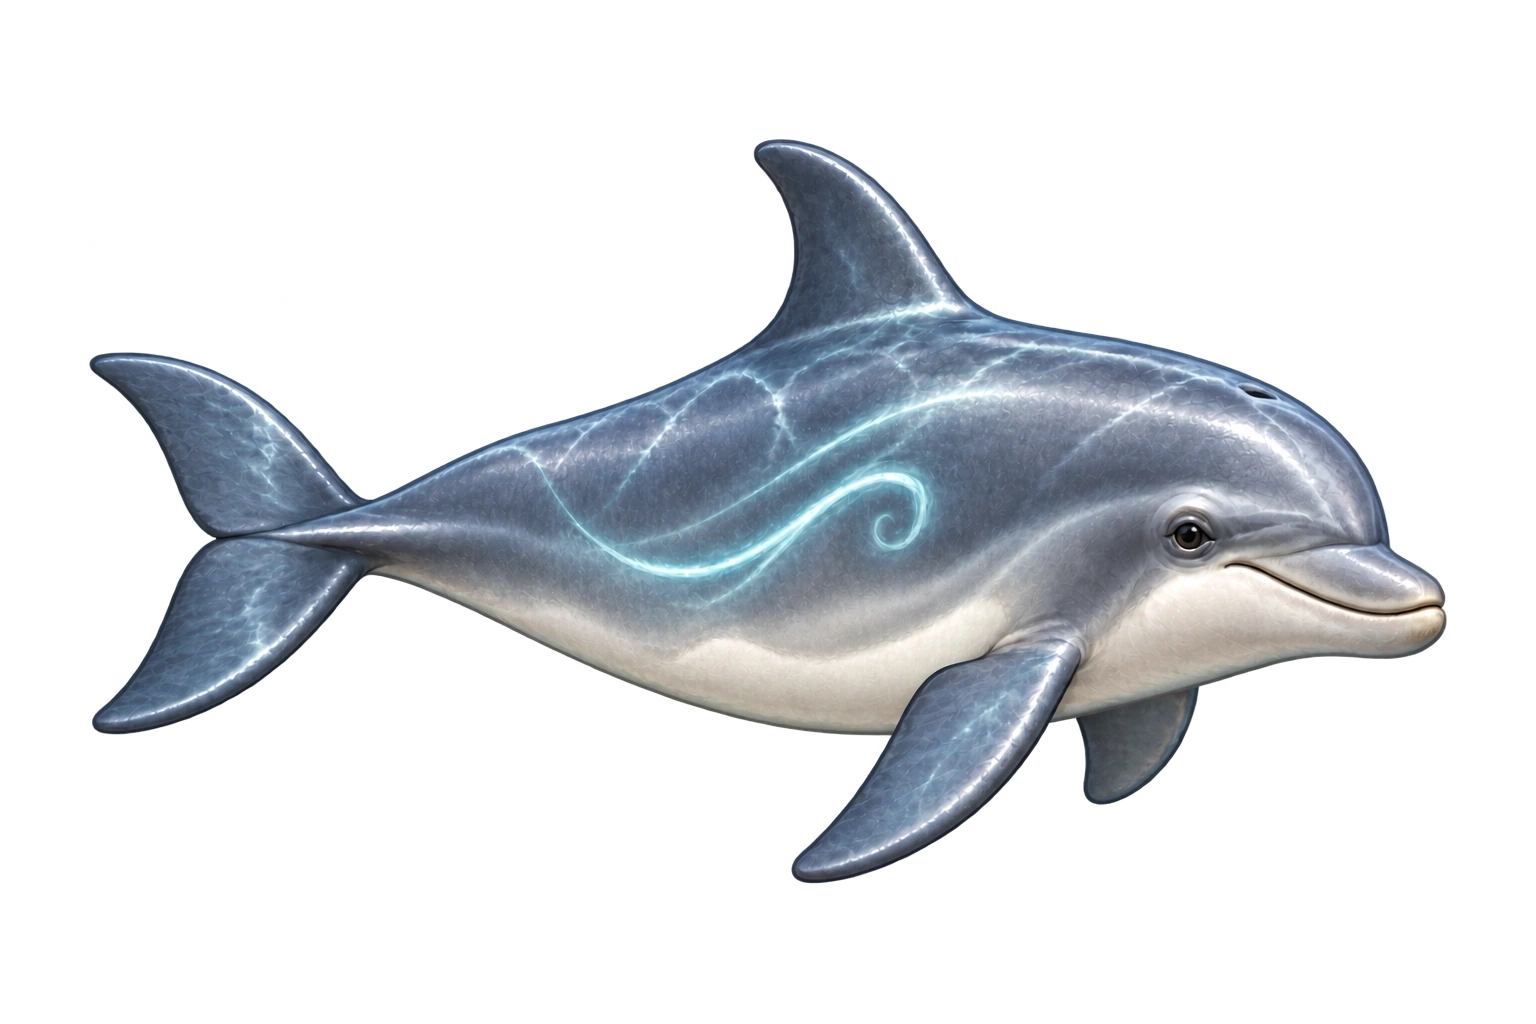
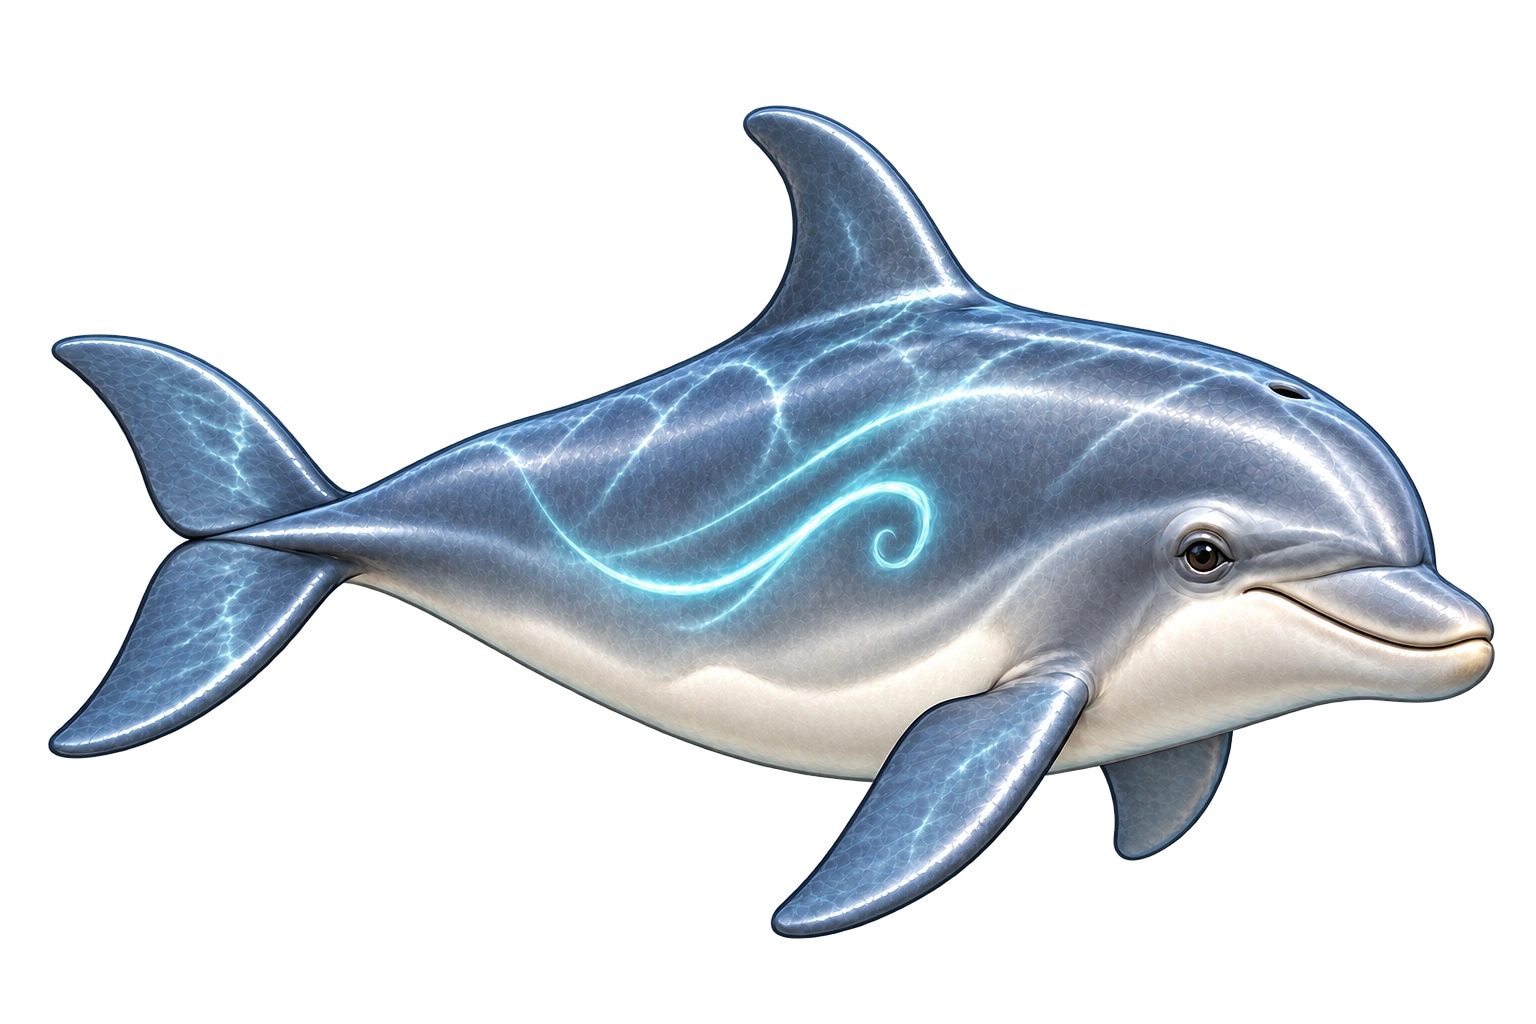
振り返りのコマを xhigh に仕上げ直し、海上の遠い海の見え方を Mio の深さに連動させる
- 振り返りの3コマ（30度・60度・正面）を gpt-image-2.5 の release（xhigh）で描き直して差し替え。
  tools/gen_turn_frames.py に --export（採用候補を切り抜いて書き出す）を追加
- 水面より上に見える「水平線から水面までの遠い海の帯」を、水面近くでは広く（高さ110）、
  潜るほど狭く、深さ400で0（空が水面の線に直接接する）にする。空中では水面近くと同じ広さで固定。
  深さが変わると帯はなめらかに伸び縮みする。水中の背景の多重スクロールは変更なし

Claude-Session: https://claude.ai/code/session_01VPscuXm57WjdZFEfPJxifW

Changed region(s): [[0.0312, 0.0938, 1.0, 0.9375]]

diff --git a/web/src/game.js b/web/src/game.js
@@ -3,7 +3,10 @@ import { Terrain } from './terrain.js';
 import { Player, P } from './player.js';
 import { FishSchool, Jelly, Shark, Follower, Particles, rand } from './entities.js';
 import { Boss } from './boss.js';
-import { clamp, damp, surfaceY, TAU } from './util.js';
+import { clamp, damp, smoothstep, surfaceY, TAU } from './util.js';
+
+const SEA_BAND = 110;        // world units of distant sea seen above the waterline near the surface
+const SEA_BAND_DEPTH = 400;  // depth at which it has shrunk to nothing
 
 class Emitter {
   constructor() { this.fns = []; }
@@ -43,6 +46,7 @@ export class World {
     this.stats = { pearls: 0, pods: 0, hurt: 0, eaten: 0 };
     this.flash = 0;
     this.slow = 0;
+    this.seaBand = this.seaBandFor(this.player);
     this.restore(progress);
   }
 
@@ -176,7 +180,15 @@ export class World {
     this.flash = Math.max(0, this.flash - dt * 2);
   }
 
+  // How much distant sea shows above the waterline: full near the surface (and in the air),
+  // shrinking to just the waterline once Mio is SEA_BAND_DEPTH below it.
+  seaBandFor(pl) {
+    const depth = pl.airborne ? 0 : Math.max(0, pl.y - surfaceY(pl.x, this.time));
+    return SEA_BAND * (1 - smoothstep(0, SEA_BAND_DEPTH, depth));
+  }
+
   updateCamera(dt, aspect) {
+    this.seaBand = damp(this.seaBand, this.seaBandFor(this.player), 3, dt);
     const pl = this.player, c = this.cam;
     const look = pl.airborne ? 0.15 : 0.32;
     // High leaps pull the view back a little so the whole arc stays readable.

diff --git a/web/src/shaders.js b/web/src/shaders.js
@@ -83,6 +83,7 @@ in vec2 vUV;
 out vec4 o;
 uniform sampler2D uSky;
 uniform vec2 uSkySize;      // world size the sky image covers
+uniform float uSeaBand;     // height of the distant sea between the waterline and the horizon (shrinks as Mio dives)
 uniform vec3 uSkyTint;
 uniform vec3 uSunDir;       // x position of sun glow relative to the camera (world units), strength
 void main() {
@@ -92,7 +93,12 @@ void main() {
     // Measured from the still water level, not the animated waves, so the distant view stays steady.
     float h = -w.y;
     float u = 0.5 + (w.x - uCam.x) / uSkySize.x + uCam.x * 0.00003;
-    float v = 0.9 - h / uSkySize.y;
+    // Rows of the sky painting: its horizon, and the near sea at the bottom. The sea between them is
+    // squeezed into uSeaBand; above that the sky continues at its normal scale.
+    const float HORIZON_V = 0.826;
+    const float NEAR_SEA_V = 0.98;
+    float v = h < uSeaBand ? mix(NEAR_SEA_V, HORIZON_V, h / max(uSeaBand, 1e-3))
+                           : HORIZON_V - (h - uSeaBand) / uSkySize.y;
     vec3 sky = texture(uSky, vec2(u, max(v, 0.0))).rgb;
     // Above the top of the painting (very high leaps), fade into its average zenith colour.
     vec3 zenith = textureLod(uSky, vec2(0.5, 0.02), 8.0).rgb;

diff --git a/web/src/renderer.js b/web/src/renderer.js
@@ -198,7 +198,7 @@ export class Renderer {
 
     G.bindTarget(gl, T.scene);
     gl.disable(gl.BLEND);
-    G.use(gl, this.p.bg, { ...common, uSky: this.images.sky, uSkySize: [2000, 900], uSkyTint: pal.sky,
+    G.use(gl, this.p.bg, { ...common, uSky: this.images.sky, uSkySize: [2000, 900], uSeaBand: view.seaBand, uSkyTint: pal.sky,
       uSunDir: [pal.sun[0] * view.cam[2], 0, pal.sun[1]] });
     this.fullscreen();
 

diff --git a/web/src/main.js b/web/src/main.js
@@ -396,7 +396,7 @@ class App {
       const W = this.world;
       const view = {
         cam: W.camView(this.save.settings.shake), time: W.time, rings: W.rings, creatures: W.creatures,
-        flash: W.flash * 0.6, fade: 0,
+        flash: W.flash * 0.6, fade: 0, seaBand: W.seaBand,
         settings: { bloom: 0.55, wobble: 1, rays: 1 },
       };
       this.renderer.render(view, this.drawer.bind(W));

diff --git a/tools/gen_turn_frames.py b/tools/gen_turn_frames.py
@@ -3,6 +3,8 @@
 
 Uses the side-view sprite as a reference image (images/edits) so the character stays the same.
 Usage: python3 tools/gen_turn_frames.py [name ...]   -> assets_src/turn/<name>_<n>.png (+ .json)
+       python3 tools/gen_turn_frames.py --export       -> trims the chosen candidates (PICK) into web/assets/img/
+To finish at release quality, run the skill's `release` on the chosen PNGs and copy the results over them.
 """
 import importlib.util, json, sys
 from concurrent.futures import ThreadPoolExecutor
@@ -32,6 +34,24 @@ FRAMES = {
               "the body and tail hidden behind the head."),
 }
 
+# Candidates used in the game (name -> file stem in assets_src/turn/).
+PICK = {"mio_turn30": "turn30_2", "mio_turn60": "turn60_2", "mio_front": "front_1"}
+
+def export():
+    from PIL import Image
+    out = ROOT / "web" / "assets" / "img"
+    for png in sorted(OUT.glob("*.png")):
+        Image.open(png).save(png.with_suffix(".webp"), quality=95, method=6)
+    for dst, stem in PICK.items():
+        im = Image.open(OUT / f"{stem}.png").convert("RGBA")
+        a = im.split()[-1].point(lambda v: 255 if v > 10 else 0)
+        l, t, r, b = a.getbbox()
+        im = im.crop((max(l - 6, 0), max(t - 6, 0), min(r + 6, im.width), min(b + 6, im.height)))
+        if im.width > 768:
+            im = im.resize((768, round(im.height * 768 / im.width)), Image.LANCZOS)
+        im.save(out / f"{dst}.webp", quality=90, method=6)
+        print(dst, stem, im.size)
+
 def make(name):
     size, pose = FRAMES[name]
     prompt = CHARACTER + pose + TAIL
@@ -53,6 +73,9 @@ def make(name):
     return True
 
 if __name__ == "__main__":
+    if "--export" in sys.argv:
+        export()
+        sys.exit()
     names = sys.argv[1:] or list(FRAMES)
     OUT.mkdir(parents=True, exist_ok=True)
     with ThreadPoolExecutor(max_workers=3) as ex:
